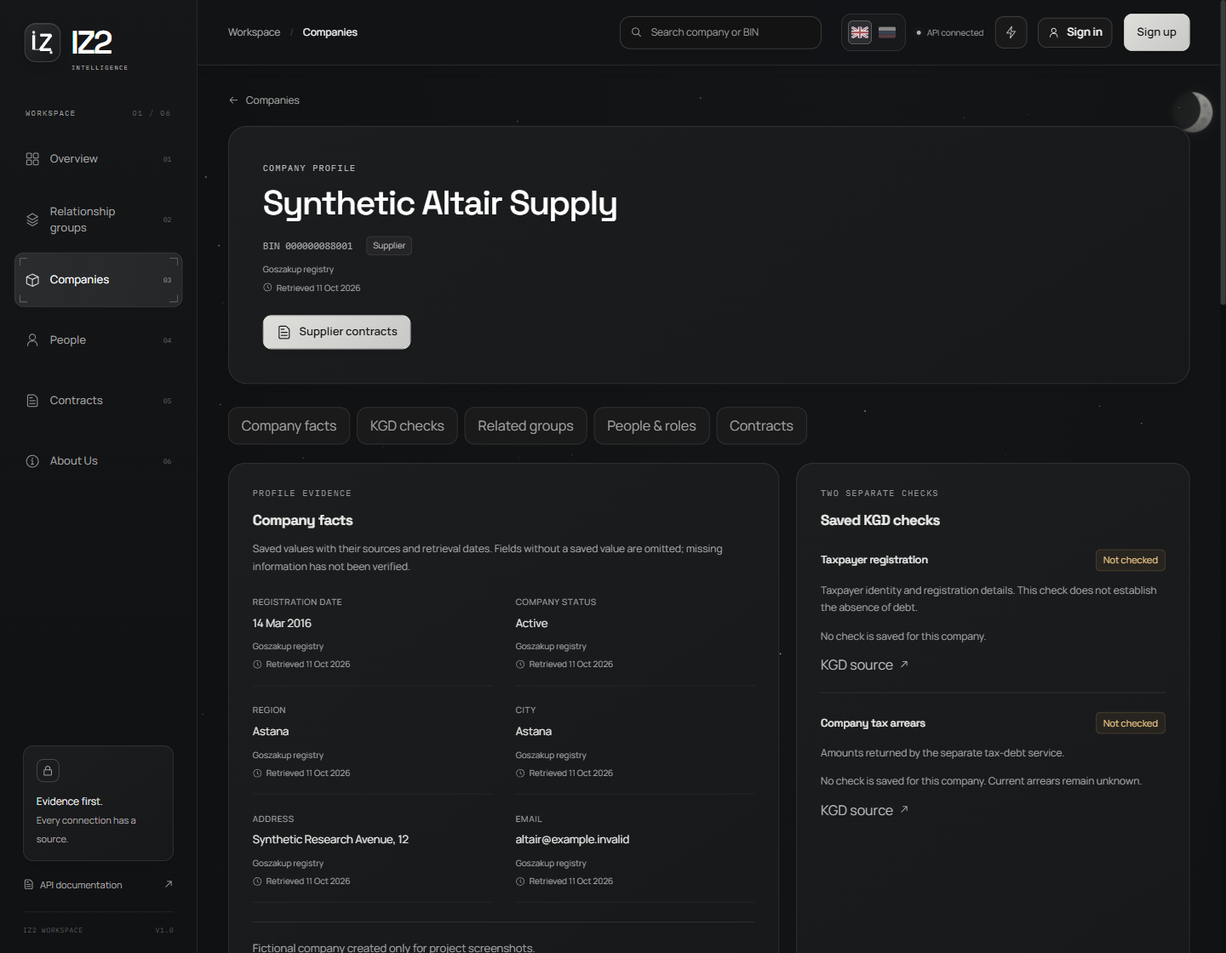
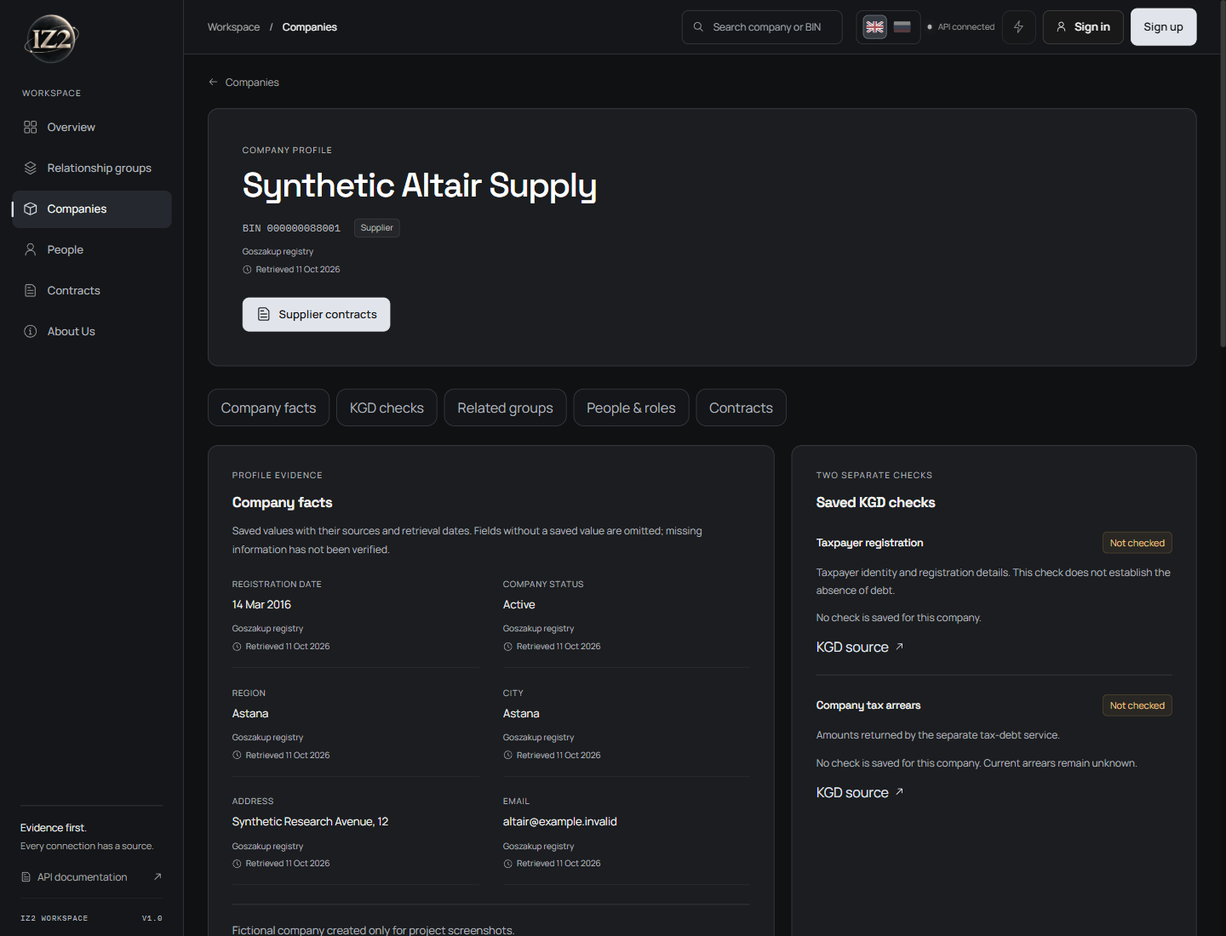
Refresh bilingual README and screenshots

diff --git a/README.md b/README.md
@@ -1,75 +1,90 @@
+<p align="center"><a href="README.md">English</a> | <a href="README.ru.md">Русский</a></p>
+
+<p align="center"><img src="docs/assets/iz2-logo.png" width="112" height="112" alt="IZ2 moon and orbit logo"></p>
+<h1 align="center">IZ2</h1>
+<p align="center">Explore the evidence behind Kazakhstan's public procurement relationships.</p>
 <p align="center">
-  <img src="docs/assets/iz2-logo.png" width="120" height="120" alt="Логотип IZ2">
+  <img src="https://img.shields.io/badge/Python-3.13%2B-3776AB?logo=python&amp;logoColor=white" alt="Python 3.13+">
+  <img src="https://img.shields.io/badge/Django-6.0-092E20?logo=django&amp;logoColor=white" alt="Django 6.0">
+  <img src="https://img.shields.io/badge/React-19.3-149ECA?logo=react&amp;logoColor=white" alt="React 19.3">
+  <img src="https://img.shields.io/badge/PostgreSQL-17-4169E1?logo=postgresql&amp;logoColor=white" alt="PostgreSQL 17">
+  <a href="LICENSE"><img src="https://img.shields.io/badge/Original_code-MIT-64748B" alt="Original project code: MIT"></a>
 </p>
 
-<h1 align="center">IZ2</h1>
+IZ2 is a thesis prototype for researchers and procurement reviewers. It connects saved company, person and contract records so you can explore relationships, inspect their sources and decide what needs further checking.
 
-IZ2 — дипломный проект для анализа связей между участниками государственных
-закупок Казахстана. Он помогает исследователям и специалистам по закупкам
-просматривать компании, людей и контракты, находить связи и проверять их источники.
+<img src="docs/assets/overview.png" width="1100" alt="IZ2 Overview with the silver moon, star field and saved-record counts">
 
-## Возможности
+All screenshots show fictional demonstration data from an isolated database. No working records or credentials are shown; these examples are not installation seeds.
 
-- Поиск компаний, людей и контрактов с указанием источников и дат получения сведений.
-- Группы связанных компаний: причина объединения, приоритет проверки и полнота данных.
-- Интерактивный граф с фильтрами, просмотром доказательств и историей сохранённых версий.
-- Объяснения по сохранённым фактам: шаблоны и опциональная генерация через локальный Qwen.
-- Аккаунты с сохранением, восстановлением и удалением персональных настроек графа.
-- Интерфейс EN/RU и документированный JSON API со Swagger на английском.
+## Features
 
-## Интерфейс
+- **Find participants:** search companies, people and contracts, then inspect source records and dates.
+- **Follow connections:** review relationship groups, their supporting evidence and rule-based review priority.
+- **Explore the graph:** filter relationships, select nodes and inspect the evidence panel.
+- **Revisit saved versions:** compare graph snapshots, group lineage and saved analysis histories.
+- **Read explanations:** inspect evidence-bound templates or optional, validated local Qwen explanations.
+- **Keep your workspace:** save, restore and delete personal graph layouts; switch the interface between English and Russian.
 
-![Главная страница IZ2](docs/assets/overview.png)
+## Screenshots
 
-Скриншот сделан на вымышленных данных; это не сведения из рабочей базы.
+**Relationship graph and evidence panel** — a selected fictional director connects three companies.
 
-## Технологии
+<img src="docs/assets/graph.png" width="1100" alt="Interactive relationship graph with a selected director and evidence panel">
 
-Python · Django · Django REST Framework · React · TypeScript · Vite · D3 ·
-PostgreSQL · Redis · Celery · Docker Compose. Локальный ИИ: Ollama / Qwen3:4b.
+<details>
+<summary>Company directory and API reference</summary>
 
-## Быстрый запуск
+**Company directory** — search, filters and links to saved profiles.
 
-Для новой пустой установки нужны Docker с Linux-контейнерами,
-Docker Compose 2.24.4+ и Python 3.13+. Команды выполняются из корня репозитория.
-На Windows вместо `python3` используйте `python` или `.\.venv\Scripts\python.exe`.
+<img src="docs/assets/catalog.png" width="1100" alt="Company directory with six fictional companies">
 
-Подготовьте приватную конфигурацию и запустите приложение:
+**API reference** — locally served Swagger documentation, filtered to company endpoints. API docs stay in English.
+
+<img src="docs/assets/api.png" width="1100" alt="English API reference with company endpoints and the shared cosmic background">
+
+</details>
+
+## Tech stack
+
+| Layer | Technologies |
+| --- | --- |
+| Workspace | React 19.3, TypeScript 7, Vite 8, D3 7 |
+| Application / API | Python 3.13+, Django 6.0, Django REST Framework 3.17 |
+| Data / jobs | PostgreSQL 17, Redis 7, Celery 5.6 / Celery beat |
+| Runtime / optional AI | Docker Compose, Gunicorn / WhiteNoise, Ollama / Qwen3:4b |
+
+## Quick start
+
+For a **new, empty installation**, install Git, Python 3.13+ and Docker with Linux containers and Compose 2.24.4+. Node and application dependencies are built inside the image. On Windows, use `python` instead of `python3`.
 
 ```sh
+git clone https://github.com/XEQU4/iz2.git
+cd iz2
 python3 scripts/prepare_deploy.py --project iz2 --output .env.docker --ai template
 docker compose --env-file .env.docker config --quiet
 docker compose --env-file .env.docker up --build -d --wait
 docker compose --env-file .env.docker ps -a
 ```
 
-Откройте [сайт](http://127.0.0.1:8000/app/) или
-[API reference](http://127.0.0.1:8000/api/v1/docs/).
-Режим `template` работает без скачивания модели.
+Open the [workspace](http://127.0.0.1:8000/app/) or [API reference](http://127.0.0.1:8000/api/v1/docs/).
 
-Установка начинается с пустой базы: сбор данных и автоматические задания ИИ
-по умолчанию отключены. Их настройка описана в [инструкции запуска](DEPLOY.md).
-Существующая локальная база не переносится автоматически; сначала выполните
-[перенос данных](DEPLOY.md#transfer-the-native-database-before-starting-the-application).
-Сохраните созданный `.env.docker` и имя проекта: повторная подготовка не
-перезаписывает файл, а другое имя проекта выбирает другие Docker-тома.
+Template mode needs no model download. The database starts empty; collection and automatic AI jobs are off. Keep `.env.docker` private. The helper refuses to overwrite it; preserve the project name because it selects the Docker volumes. For existing native data, follow the [transfer procedure](DEPLOY.md#transfer-the-native-database-before-starting-the-application) before starting the application.
 
-## Документация
+## Documentation
 
-- [Запуск, сбор данных и резервные копии](DEPLOY.md)
-- [Локальная разработка](docs/DEVELOPMENT.md)
-- [Источники и полнота данных](docs/DATA_READINESS.md)
-- [Объяснения ИИ](docs/AI_GROUNDING.md)
-- [Все документы](docs/README.md)
+- [Deployment, collection and backups](DEPLOY.md) · [Local development](docs/DEVELOPMENT.md)
+- [Architecture](docs/ARCHITECTURE.md) · [Sources and coverage](docs/DATA_READINESS.md)
+- [AI explanations](docs/AI_GROUNDING.md) · [Documentation index](docs/README.md)
 
-Обнаруженная связь компаний сама по себе не доказывает нарушение.
-Проект предназначен для ручного анализа и демонстрации; ограничения публичного
-запуска перечислены в [текущем аудите](docs/FINAL_AUDIT.md).
+## Limitations
 
-## Лицензия
+- A shared contact or connected group does not establish collusion. Review priority is a deterministic index, not a calibrated probability or validated ML detector.
+- Source coverage is incomplete. Missing checks do not establish a clean finding; source dates and evidence gaps remain visible.
+- This is a supervised thesis prototype, not an unattended public service. Remaining gates are in the [current audit](docs/FINAL_AUDIT.md).
 
-Собственный код и документация: [MIT](LICENSE).
-Автор: [Barakhat Mukhtar Batyruly](mailto:b.m.04.11reg@gmail.com).
-Сторонние компоненты и шрифты сохраняют свои условия, включая Commons Clause
-для адаптаций React Bits. Подробности: [сторонние лицензии](THIRD_PARTY_NOTICES.md).
-Лицензия кода не предоставляет права на данные внешних источников.
+## License and author
+
+Original code and documentation: [MIT](LICENSE), © 2026 [Barakhat Mukhtar Batyruly](mailto:b.m.04.11reg@gmail.com).
+
+Third-party components and fonts retain their own terms, including **MIT + Commons Clause** for React Bits adaptations. See [third-party notices](THIRD_PARTY_NOTICES.md). Software licensing does not grant rights to external source data.

diff --git a/README.ru.md b/README.ru.md
@@ -1,0 +1,90 @@
+<p align="center"><a href="README.md">English</a> | <a href="README.ru.md">Русский</a></p>
+
+<p align="center"><img src="docs/assets/iz2-logo.png" width="112" height="112" alt="Логотип IZ2 с луной и орбитой"></p>
+<h1 align="center">IZ2</h1>
+<p align="center">Исследуйте связи участников госзакупок Казахстана и подтверждающие их сведения.</p>
+<p align="center">
+  <img src="https://img.shields.io/badge/Python-3.13%2B-3776AB?logo=python&amp;logoColor=white" alt="Python 3.13+">
+  <img src="https://img.shields.io/badge/Django-6.0-092E20?logo=django&amp;logoColor=white" alt="Django 6.0">
+  <img src="https://img.shields.io/badge/React-19.3-149ECA?logo=react&amp;logoColor=white" alt="React 19.3">
+  <img src="https://img.shields.io/badge/PostgreSQL-17-4169E1?logo=postgresql&amp;logoColor=white" alt="PostgreSQL 17">
+  <a href="LICENSE"><img src="https://img.shields.io/badge/Original_code-MIT-64748B" alt="Original project code: MIT"></a>
+</p>
+
+IZ2 — дипломный прототип для исследователей и специалистов по закупкам. Он объединяет сохранённые записи о компаниях, людях и контрактах, чтобы можно было изучать связи, проверять их источники и выбирать, что требует дополнительной проверки.
+
+<img src="docs/assets/overview.png" width="1100" alt="Обзор IZ2 с серебристой луной, звёздным фоном и счётчиками сохранённых записей">
+
+Все скриншоты показывают вымышленные демонстрационные данные из отдельной базы. Рабочих записей и секретов на них нет; эти примеры не загружаются при установке.
+
+## Возможности
+
+- **Находите участников:** ищите компании, людей и контракты, изучайте исходные записи и даты.
+- **Прослеживайте связи:** смотрите группы компаний, подтверждающие сведения и рассчитанный по правилам приоритет проверки.
+- **Исследуйте граф:** фильтруйте связи, выбирайте узлы и изучайте панель доказательств.
+- **Возвращайтесь к сохранённым версиям:** сопоставляйте снимки графа, историю групп и сохранённые результаты анализа.
+- **Читайте объяснения:** изучайте шаблоны по сохранённым фактам или опциональные объяснения локального Qwen, прошедшие проверку привязки к доказательствам.
+- **Настраивайте рабочее пространство:** сохраняйте, восстанавливайте и удаляйте личные раскладки графа; переключайте интерфейс между русским и английским.
+
+## Скриншоты
+
+**Граф связей и панель доказательств** — выбранный вымышленный директор связывает три компании.
+
+<img src="docs/assets/graph.png" width="1100" alt="Интерактивный граф связей с выбранным директором и панелью доказательств">
+
+<details>
+<summary>Каталог компаний и документация API</summary>
+
+**Каталог компаний** — поиск, фильтры и переходы к сохранённым профилям.
+
+<img src="docs/assets/catalog.png" width="1100" alt="Каталог с шестью вымышленными компаниями">
+
+**Документация API** — локальный Swagger с фильтром по методам компаний. Документация API остаётся на английском.
+
+<img src="docs/assets/api.png" width="1100" alt="Английская документация API с методами компаний и общим космическим фоном">
+
+</details>
+
+## Технологии
+
+| Слой | Технологии |
+| --- | --- |
+| Интерфейс | React 19.3, TypeScript 7, Vite 8, D3 7 |
+| Приложение / API | Python 3.13+, Django 6.0, Django REST Framework 3.17 |
+| Данные / задачи | PostgreSQL 17, Redis 7, Celery 5.6 / Celery beat |
+| Запуск / опциональный ИИ | Docker Compose, Gunicorn / WhiteNoise, Ollama / Qwen3:4b |
+
+## Быстрый запуск
+
+Для **новой пустой установки** нужны Git, Python 3.13+ и Docker с Linux-контейнерами и Compose 2.24.4+. Node и зависимости приложения устанавливаются при сборке образа. На Windows используйте `python` вместо `python3`.
+
+```sh
+git clone https://github.com/XEQU4/iz2.git
+cd iz2
+python3 scripts/prepare_deploy.py --project iz2 --output .env.docker --ai template
+docker compose --env-file .env.docker config --quiet
+docker compose --env-file .env.docker up --build -d --wait
+docker compose --env-file .env.docker ps -a
+```
+
+Откройте [сайт](http://127.0.0.1:8000/app/) или [документацию API](http://127.0.0.1:8000/api/v1/docs/).
+
+Режим шаблонов не требует скачивания модели. База изначально пустая; сбор данных и автоматические задания ИИ отключены. Храните `.env.docker` приватно. Помощник не перезаписывает этот файл; сохраняйте имя проекта, поскольку оно определяет Docker-тома. Для существующей локальной базы выполните [перенос данных](DEPLOY.md#transfer-the-native-database-before-starting-the-application) до запуска приложения.
+
+## Документация
+
+- [Запуск, сбор данных и резервные копии](DEPLOY.md) · [Локальная разработка](docs/DEVELOPMENT.md)
+- [Архитектура](docs/ARCHITECTURE.md) · [Источники и полнота данных](docs/DATA_READINESS.md)
+- [Объяснения ИИ](docs/AI_GROUNDING.md) · [Все документы](docs/README.md)
+
+## Ограничения
+
+- Общий контакт или группа связанных компаний не доказывают сговор. Приоритет проверки — детерминированный индекс, а не калиброванная вероятность или валидированный ML-детектор.
+- Источники охватывают не все сведения. Отсутствие проверки не означает отсутствие проблемы; даты источников и пробелы в доказательствах остаются видимыми.
+- Это дипломный прототип для работы под наблюдением, а не автономный публичный сервис. Нерешённые вопросы перечислены в [текущем аудите](docs/FINAL_AUDIT.md).
+
+## Лицензия и автор
+
+Собственный код и документация: [MIT](LICENSE), © 2026 [Barakhat Mukhtar Batyruly](mailto:b.m.04.11reg@gmail.com).
+
+Сторонние компоненты и шрифты сохраняют свои условия, включая **MIT + Commons Clause** для адаптаций React Bits. См. [сторонние лицензии](THIRD_PARTY_NOTICES.md). Лицензия кода не предоставляет права на данные внешних источников.

diff --git a/docs/assets/README.md b/docs/assets/README.md
@@ -1,16 +1,22 @@
 # README screenshots
 
 Captured from the running IZ2 React workspace and Swagger reference on
-11 October 2026, after the graphite design update. These are browser captures,
-not generated mockups or edited application screens.
+11 October 2026. All four screens use the approved graphite and silver design,
+shared cosmic background and original transparent PNG logo. These are browser captures, not generated
+mockups or edited application screens.
 
 | File           | Screen                                                                                      |
 | -------------- | ------------------------------------------------------------------------------------------- |
 | `overview.png` | Overview, six checked companies, three current verified people, 24 contracts and two groups |
 | `graph.png`    | Three companies, one shared director and a shared address; the director is selected         |
-| `company.png`  | Company fields with provenance and separate, missing KGD checks                             |
-| `api.png`      | English API reference with the company list endpoint expanded                               |
-| `iz2-mark.svg` | Approved square primary emblem for the README header                             |
+| `catalog.png`  | Company directory, six fictional companies and saved-profile filters                       |
+| `api.png`      | English API reference filtered to Companies, with its two GET endpoints visible             |
+| `iz2-logo.png` | Approved transparent square PNG used in both README headers                                |
+
+Overview is captured at 1440 × 650, the graph at 1440 × 1160, and the catalogue
+and API at 1440 × 1040. The graph view is scrolled to show the complete explorer
+and evidence panel. Captures contain only the browser viewport, with no browser
+chrome, desktop, image compositing or changes to the interface for presentation.
 
 All displayed entities, identifiers, contacts, dates and relationships come from
 an isolated fictional fixture. It contains no working database records, user
@@ -21,7 +27,8 @@ template analyses and do not claim a model generated those results.
 The fixture contains six companies and three people, with two groups: one formed
 by a shared director and address, the other by a shared phone. The screenshot
 dataset is not shipped as an installation seed. Private capture scripts and
-verification reports stay under ignored `artifacts/readme/`.
+verification reports stay under ignored `artifacts/readme/` and
+`artifacts/noir-design/`.
 
 When updating the images, use fictional data, wait for fonts, records and heading
 animations to finish, and inspect the saved image. Keep names, credentials and
@@ -37,6 +44,9 @@ copies for Django and the repository README. Do not redraw, crop or re-encode it
 React imports it through Vite; Django templates resolve it through static storage.
 
 The earlier vector source files remain in the frontend branding directory.
-Their simplified favicon still serves tabs;
-the PNG replaces visible website logos. The screenshots above predate this
-logo change and retain their original capture.
+Their simplified favicon still serves tabs; the PNG replaces visible website
+logos. All four screenshots use the current logo and palette.
+
+`iz2-mark.svg` is a retained earlier vector asset, not the current README logo.
+`company.png` remains referenced by the archived README and is retained outside
+the current screenshot gallery.
